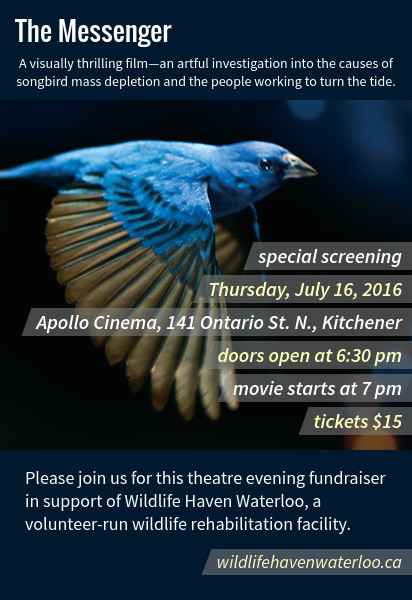
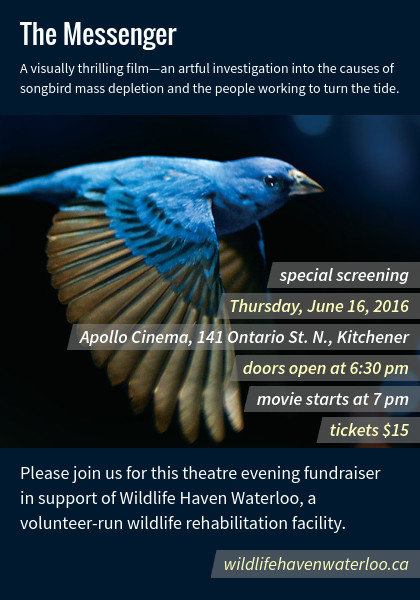
Tweak flyer layout and fix date

diff --git a/the.messenger/flyer.css b/the.messenger/flyer.css
@@ -14,17 +14,17 @@
 }
 
 #flyer {
-  width: 412px;
+  width: 420px;
   height: 600px;
-  background: #01192f url('half.poster.412x350.png') no-repeat 0 100px;
+  background: #01192f url('banner.420x333.png') no-repeat 0 115px;
   font-family: 'Source Sans Pro';
   position: relative;
 }
 
 #movieTitle {
   position: absolute;
-  top: 10px;
-  left: 15px;
+  top: 13px;
+  left: 20px;
   font-family: Oswald;
   font-weight: 400;
   font-size: 27px;
@@ -34,12 +34,13 @@
 
 #blurb {
   position: absolute;
-  bottom: 500px;
-  left: 15px;
+  bottom: 492px;
+  left: 20px;
   padding-bottom: 10px;
   font-family: 'Source Sans Pro';
   font-style: normal;
   font-size: 14px;
+  line-height: 20px;
   text-align: left;
   background: url('translucent.png');
   background: #02182f;
@@ -50,21 +51,21 @@
 #summary {
   font-weight: 600;
   font-style: italic;
-  font-size: 20px;
+  font-size: 18px;
   text-align: right;
   position: absolute;
-  bottom: 160px;
+  bottom: 152px;
   right: 0;
 }
 #summary div, #invitation .webAddress {
   display: inline-block;
   margin-bottom: 5px;
-  padding: 1px 10px 2px 15px;
+  padding: 1px 11px 2px 13px;
   background: url('translucent.png');
   color: #fff;
   position: relative;
-  -webkit-clip-path: polygon(0 100%, 10px 0, 100% 0, 100% 100%);
-  clip-path: polygon(0 100%, 10px 0, 100% 0, 100% 100%);
+  -webkit-clip-path: polygon(0 100%, 6px 0, 100% 0, 100% 100%);
+  clip-path: polygon(0 100%, 6px 0, 100% 0, 100% 100%);
 }
 #summary div.highlight {
   color: #ffb;
@@ -73,16 +74,17 @@
 #invitation {
   font-family: 'Source Sans Pro';
   font-size: 18px;
+  line-height: 25px;
   font-style: normal;
   color: #fff;
   position: absolute;
   bottom: 65px;
-  padding: 0 25px;
+  padding: 0 30px 0 20px;
 }
 #invitation .webAddress {
   position: absolute;
   right: 0;
-  bottom: -45px;
+  bottom: -48px;
   margin-top: 10px;
   text-align: right;
 }

diff --git a/the.messenger/flyer.html b/the.messenger/flyer.html
@@ -34,7 +34,7 @@ working to turn the tide. </div>
 
   <div> special screening </div><br>
 
-  <div class="highlight"> Thursday, July 16, 2016 </div><br>
+  <div class="highlight"> Thursday, June 16, 2016 </div><br>
 
   <div> Apollo Cinema, 141 Ontario St. N., Kitchener </div><br>
 
